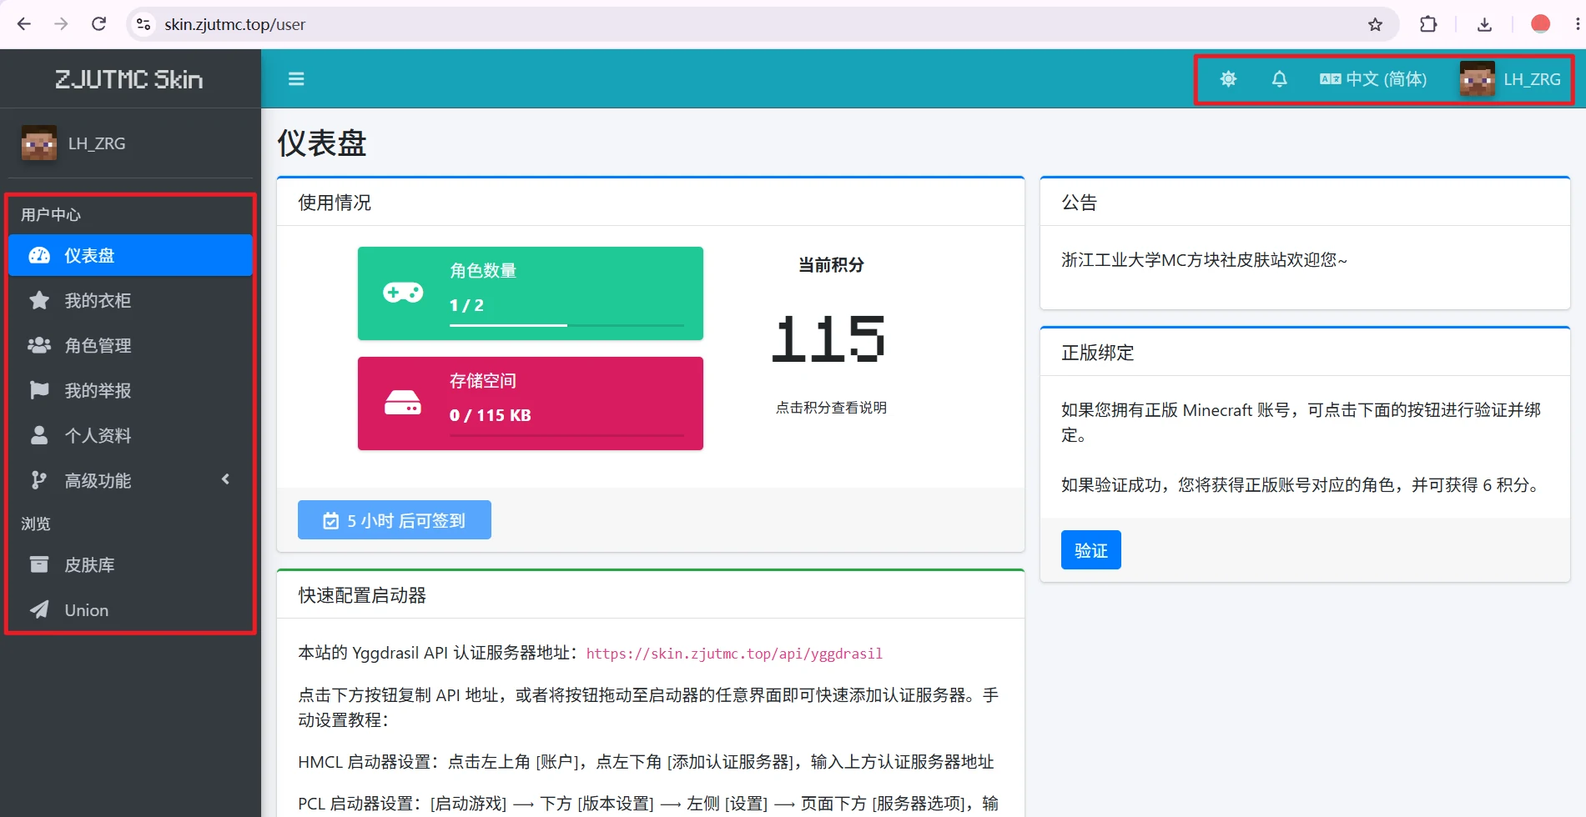
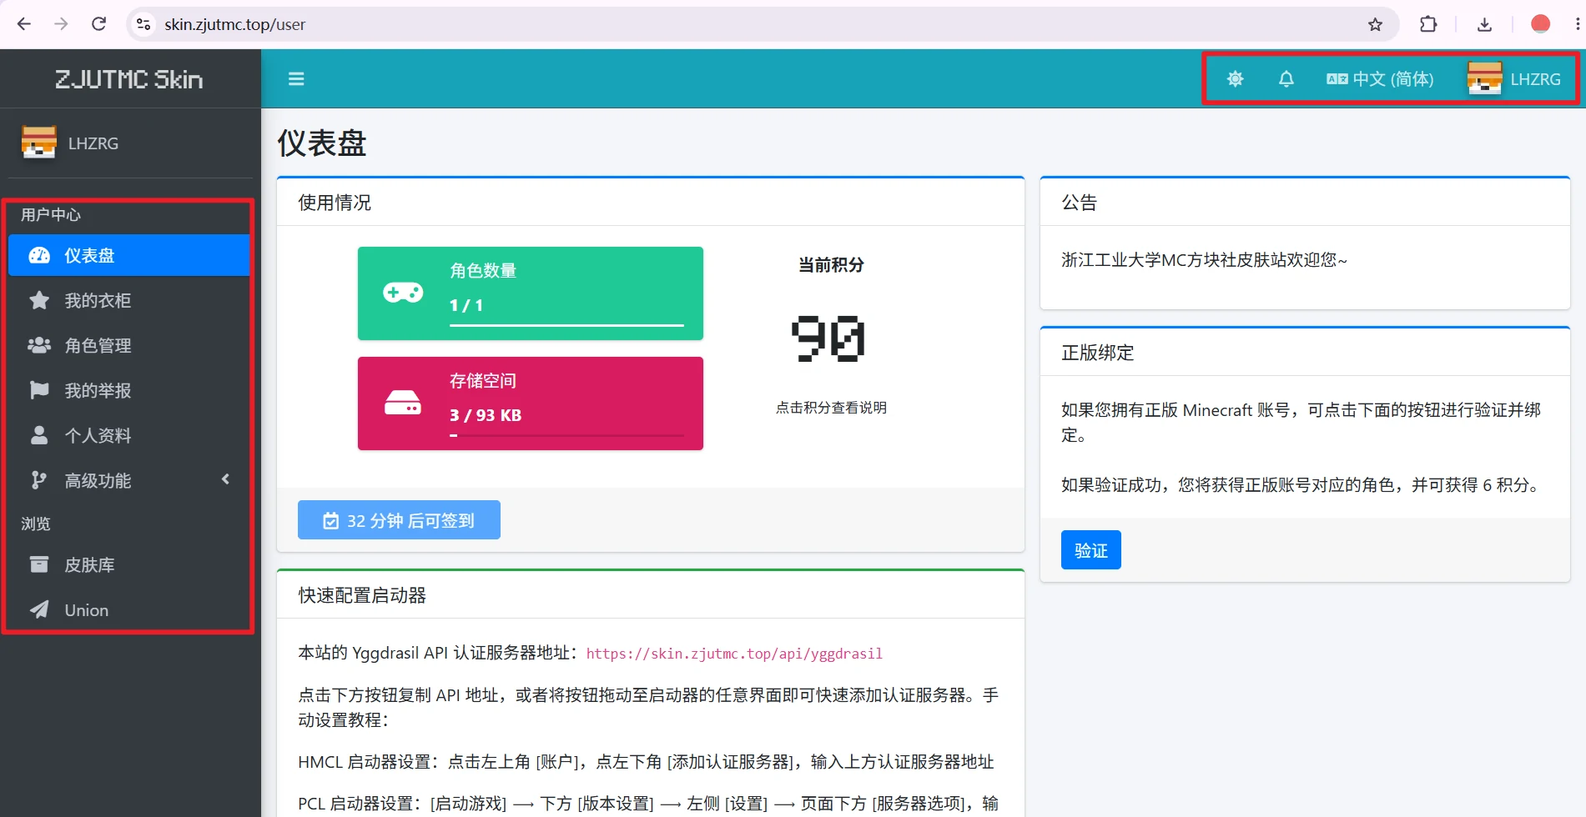
docs: 更新皮肤站使用指南

diff --git a/content/docs/how-to-use-skin-zjutmc-top/index.md b/content/docs/how-to-use-skin-zjutmc-top/index.md
@@ -8,150 +8,298 @@ showTableOfContents = true
 showHero = false
 +++
 
-> **编写中：本文仍待核对与补充，请以社团最新通知为准。**
+社团皮肤站用于管理 Minecraft 角色，同时为角色添加皮肤与披风。本文面向 Java 版玩家。
 
-社团皮肤站用于管理 Minecraft 角色的皮肤与披风。本文主要面向 Java 版玩家，介绍通用操作；具体按钮名称、注册要求和客户端配置，请以皮肤站当前页面及社团服务器说明为准。
-
-**皮肤站地址：[skin.zjutmc.top](https://skin.zjutmc.top/)**
-
-> **用过 LittleSkin？可以先看下面的快速上手。** 社团皮肤站与 LittleSkin 均基于 Blessing Skin Server，角色管理、皮肤库和衣柜等操作有相似之处，但两站是不同服务，账号、角色、材质和登录状态不互通。
+**皮肤站地址：[https://skin.zjutmc.top](https://skin.zjutmc.top/)**
 
 ## LittleSkin 用户快速开始
 
-如果你已经熟悉 LittleSkin，可以跳过后面的注册与使用基础说明，按下列步骤逐项检查即可：
+本社团皮肤站与 LittleSkin 均基于 Blessing Skin Server，操作有诸多相似之处，但**两站数据不互通**。如果你已经熟悉 LittleSkin，按下列步骤逐项检查即可：
 
-1. 打开 [浙江工业大学MC方块社皮肤站](https://skin.zjutmc.top/)，按本站要求**单独注册并登录**，其他皮肤站账号均无法直接登录。
-2. 在角色管理中创建或确认角色，使角色名与实际使用方式、服务器要求一致。
-3. 上传自己的皮肤，或在本站皮肤库中选择材质，加入衣柜后应用到目标角色。
-4. 阅读本文的[客户端与服务器配置](#client-server-config)，确认使用社团提供的客户端、皮肤加载方案或外置登录方案。
+1. 打开 [浙江工业大学MC方块社皮肤站](https://skin.zjutmc.top/)，按社团皮肤站要求**注册账号并登录**，其他皮肤站账号均无法直接登录。
+2. 在角色管理中创建修改角色，使角色名与实际使用方式、服务器要求一致。
+3. 上传自己的皮肤，或在社团皮肤站的皮肤库中选择材质，加入衣柜后应用到目标角色。
+4. 阅读本文的[客户端与服务器配置](#client-server-config)，确认使用社团提供的客户端与登录方案。
 
-## 开始之前
+## 新用户从这里开始
 
-请先区分三个易被混淆的概念：
+### 开始之前
+请先区分三个未详细了解时易被混淆的概念：
 
 | 概念 | 用途 | 注意事项 |
 | --- | --- | --- |
-| 皮肤站 | 管理角色与材质的网站 | 不是专供皮肤下载的皮肤中心，其账号不等于微软账号，也不应默认与其他皮肤站账号互通 |
-| 角色 | 接受皮肤、披风设置的游戏身份 | 角色名与客户端、服务器的对应方式取决于实际登录方案 |
-| 皮肤与披风 | 角色使用的外观材质 | 上传或收藏后，通常还需要应用到具体角色 |
+| 皮肤站 | 管理角色并提供验证的网站 | 不是专供下载皮肤材质的皮肤网站，但网站内有玩家上传的材质<br>其账号不是正版账号，也不默认与其他皮肤站账号互通 |
+| 角色 | 接受皮肤与披风设置的游戏身份 | 角色名与客户端、服务器的对应方式取决于实际登录方案 |
+| 皮肤与披风 | 角色使用的外观材质 | 上传或收藏后，需要应用到具体角色 |
 
-> **在网页上设置成功，不等于所有客户端和服务器都会自动显示。** 是否显示，还取决于客户端皮肤加载方式、外置登录配置以及服务器支持情况。
+在网页上设置成功，不等于所有客户端和服务器都会自动显示。是否显示，取决于客户端皮肤加载方式、外置登录配置以及服务器支持情况。
 
-本站不是 Minecraft 官方服务，不会因此修改微软账号中的官方皮肤，也不提供 Minecraft 正版购买凭证。
+社团皮肤站不提供 Minecraft 官方服务，也不会修改正版账号中的皮肤与披风，更不提供 Minecraft 正版账号的购买与验证凭证。
 
-## 一、注册并登录
+### 一、注册并登录
 
 1. 打开 [浙江工业大学MC方块社皮肤站](https://skin.zjutmc.top/)。
 
-    ![皮肤站欢迎页](welcome_page.webp)
-
 2. 可使用页面右上方的语言菜单切换为所需语言。
 
-3. 点击“现在注册”；如已注册账号，点击登录。
+3. 点击“现在注册” ；如已注册账号，点击登录。
+
+    ![皮肤站欢迎页](welcome_page.webp)
+
+4. 按下图页面要求填写所有信息，完成人机验证，点击注册。
 
     ![皮肤站注册页](register.webp)
 
-4. 按页面要求填写所有信息，完成人机验证，点击注册。
-
-    ![完成人机验证](greenbingo.webp)
+5. 完成账号注册如下图所示。使用社团皮肤站账号登录。
 
     ![完成账号注册](whitebingo.webp)
 
-5. 注册完成后，使用本站账号登录。
+    点击这里 → [前往登录页面](https://skin.zjutmc.top/auth/login)
 
-    [前往登录页面](https://skin.zjutmc.top/auth/login)
-
-## 二、创建与修改角色
+### 二、创建与修改角色
 
 登录后，系统会自动跳转至用户中心仪表盘，在这里可以看到总览信息。
+
+![皮肤站主页](home_page.webp)
+
+1. 注册皮肤站账号时，系统已按提交的角色名创建角色，默认为Steve皮肤，无披风。
+
+2. 要绑定正版账号，点击"用户中心-仪表盘"，点击右侧正版绑定"验证"按钮，网页会跳转到 Microsoft 网站等待授权验证。完成后该皮肤站账号即绑定正版账号，角色会同步正版账号上使用的皮肤和披风。
+
+    ![链接正版账号](authorized.webp)
+
+3. 要修改角色外观，点击"用户中心-我的衣柜"，点击"上传材质"，按提示上传 Minecraft 皮肤使用的PNG材质文件 (而不是人物效果截图) 。选择模型时，请**区分 Steve／默认模型（宽手臂）**与 **Alex／纤细模型（细手臂）**，查看预览以确认皮肤模型正确。  
+
+    ![材质页面](skin_page.webp)
+
+    ![上传材质](uplode_skin_page.webp)
+
+    上传完成后，回到"用户中心-我的衣柜"，在"皮肤"栏目下选择已上传或收藏的皮肤，点击右侧预览框下方"使用..."添加到指定角色。
+
+    ![选择材质](choose_skin.webp)
+
+    > 常见 Java 版皮肤尺寸为 `64×64` 或 `64×32`；不要仅把普通图片改名为 `.png` 后上传。  
+
+    > 请尊重材质原作者，不要未经允许转载、冒充原创或公开他人的私有材质，本皮肤站仅代为保存材质。皮肤站上传的披风不等于微软或 Mojang 官方披风，也不能保证自定义披风在未配置支持的客户端中显示。
+
+4. 要修改角色名称，点击"用户中心-角色管理"，点击角色名修改图标，修改角色名称。
+
+    ![修改角色名称](change_name.webp)
+
+    > 修改正版账号对应角色的角色名称会导致皮肤站因无法找到同名角色而无法同步正版账号上使用的皮肤和披风，请谨慎操作。
+
+5. 要创建新角色，点击"用户中心-角色管理"，点击"添加新角色"，按要求添加新角色。每添加一个新角色需要消耗100皮肤站积分。
+
+    ![创建新角色](create_new_player.webp)
+
+    > 建议使用符合 Minecraft Java 版常见规则的角色名，例如英文字母、数字和下划线。
+
+    > **不要随意删除、重建或改名。** 角色名称或身份变化可能影响服务器中的玩家识别；有进度、背包或白名单记录时，请先咨询服务器管理员。
+
+### 三、配置皮肤加载 {#client-server-config}
+
+请优先使用社团提供的客户端，遵循对应服务器的入服说明。如果配置正常工作，不要额外重复安装模组或改动登录方式。
+
+关于启动器验证配置，详阅[PCL启动器使用指南]() 
+
+#### 使用社团客户端配置皮肤加载
+
+1. 按入服指引说明，将客户端导入启动器，使用指定的账号或角色。
+2. 在皮肤站确认皮肤已应用到正确角色。
+3. 点击"用户中心-仪表盘", 在"快速配置启动器"栏目下选择合适的方式配置启动器登录方式。
+
+    ![配置登录](sign_in.webp)
+
+#### 自行配置皮肤加载
+
+使用 CustomSkinLoader 等皮肤加载模组时，需要匹配 Minecraft 版本与模组加载器，有时可能需要添加社团皮肤站皮肤源。
+
+> **安装模组不代表它会自动读取社团皮肤站。**社团皮肤站皮肤源的地址、顺序和配置以维护者提供的信息为准。
+
+## 皮肤站功能详细介绍
+
 左侧菜单栏提供了多种工具管理皮肤站账号内容，右上角功能键分别为：切换深浅主题色、未读信息、切换语言、账号信息。
 
-1. 注册皮肤站账号时，系统已按提交的游戏内角色名创建角色，默认为Steve皮肤，无披风。
-2. 要链接到正版账号，点击"用户中心-仪表盘"，点击右侧正版绑定"验证"按钮，网页会跳转到Microsoft网站等待授权验证。完成后该皮肤站账号即绑定正版账号，角色会同步当前正版账号上使用的皮肤和披风。
-3. 要修改角色外观，点击"用户中心-我的衣柜"，点击"上传材质"，按提示上传Minecraft皮肤使用的PNG材质文件，而不是人物效果截图。选择模型时，请区分 Steve／默认模型（宽手臂） 与 Alex／纤细模型（细手臂），查看预览以确认皮肤模型正确。上传完成后，回到"用户中心-我的衣柜"，在"皮肤"栏目下选择已上传或收藏的皮肤，点击右侧预览框下方"使用..."添加到指定角色。常见 Java 版皮肤尺寸为 `64×64`，传统皮肤也可能是 `64×32`；不要仅把普通图片改名为 `.png` 后上传。请尊重原作者，不要未经允许转载、冒充原创或公开他人的私有材质，本皮肤站仅为正常游玩游戏代为保存皮肤。修改角色披风方式以此类推。本站上传的披风不等于微软或 Mojang 官方披风，也不能保证自定义披风在未配置支持的客户端中显示。
-4. 要修改角色名称，点击"用户中心-角色管理"，点击角色名修改图标，修改角色名称。修改正版账号对应角色的角色名称会导致皮肤站因无法找到同名角色而无法同步正版账号上使用的皮肤和披风，请谨慎操作。
-5. 要创建新角色，点击"用户中心-角色管理"，点击"添加新角色"，按要求添加新角色。每添加一个新角色需要消耗100皮肤站积分，可添加的新角色数量可以从仪表盘"使用情况-角色数量"栏目下 x/y  得到，x为已有角色数量，y为当前积分下支持拥有的角色总数量。
+### 仪表盘
 
-建议使用符合 Minecraft Java 版常见规则的角色名，例如英文字母、数字和下划线。
+#### 使用情况
 
-**不要随意删除、重建或改名。** 角色名称或身份变化可能影响服务器中的玩家识别；有进度、背包或白名单记录时，请先咨询服务器管理员。
+总览角色数量、存储空间和当前积分。皮肤站现已支持上传高清皮肤和披风。
 
-## 三、客户端与服务器配置 {#client-server-config}
+角色数量下有 x/y ，x为已有角色数量，y为当前积分下支持拥有的角色总数量。
 
-请优先使用社团提供的客户端或整合包，并遵循对应服务器的入服说明。如果已有配置正常工作，不要因为教程提到某个模组而重复安装或改动登录方式。
+积分细则请前往皮肤站点击积分查看。
 
-### 情况 A：社团客户端已经配置好
+#### 公告
 
-1. 按社团说明启动客户端，使用指定的账号或角色。
-2. 在皮肤站确认皮肤已应用到正确角色。
-3. 重启游戏或重新进入服务器，检查显示效果。
+查看皮肤站最新公告
 
-如果仍然不显示，先阅读下方的排查清单，不要立刻更换角色或删除账号。
+浙江工业大学MC方块社皮肤站欢迎您~
 
-### 情况 B：自行配置皮肤加载
+#### 快速配置启动器
 
-使用 CustomSkinLoader 等皮肤加载模组时，需要匹配 Minecraft 版本与模组加载器，并按管理员说明添加本站皮肤源。
+拖拽按钮快速配置启动器登录，或手动配置认证服务器。
 
-**安装模组不代表它会自动读取社团皮肤站。** LittleSkin 可能存在预置支持，但不能据此假定社团皮肤站也在默认加载列表中；本站皮肤源的地址、顺序和配置以维护者提供的信息为准。
+#### 正版绑定
 
-这类方案主要解决客户端如何获取皮肤，不等于服务器登录认证，也不会自动让所有其他玩家看到你的皮肤；其他玩家的客户端同样需要具备对应支持。
+将已登录的皮肤站账号链接到微软正版账号。绑定完成后同步正版账号上使用的皮肤和披风。
 
-### 情况 C：服务器要求外置登录
+### 我的衣柜
 
-仅在社团明确启用并提供外置登录说明时使用此方案：
+#### 皮肤
 
-1. 在支持相应认证方式的启动器中，添加管理员提供的认证服务器。
-2. 检查认证地址确实属于社团指定服务，不要沿用 LittleSkin 的地址。
-3. 按启动器提示使用本站凭据登录，并选择正确角色。
-4. 通过该账号启动游戏，连接支持这一认证方式的服务器。
+查看自己已上传、由正版账号导入和收藏的由其他玩家上传的皮肤。
 
-**本文暂不提供未经核实的认证地址。** 如果没有找到社团发布的配置说明，请先咨询管理员，不要猜测接口路径，也不要向不明认证服务器提交密码。
+点击齿轮设置键，可以重命名皮肤、将皮肤从衣柜中移除、在皮肤库中查看该皮肤、将当前皮肤设为皮肤站账号头像。
 
-<!-- 编辑者补充区：核实后在此加入实际启动器操作、认证地址及截图，或删除不适用的方案。 -->
+[皮肤站皮肤库](https://skin.zjutmc.top/skinlib)
+
+#### 披风
+
+查看自己已上传、由正版账号导入和收藏的由其他玩家上传的披风。
+
+点击齿轮设置键，可以重命名披风、将披风从衣柜中移除、在披风库中查看该披风。
+
+[皮肤站披风库](https://skin.zjutmc.top/skinlib?filter=cape)
+
+#### 上传材质
+
+上传个性化皮肤与披风的入口。
+
+#### 材质预览
+
+预览当前可用的皮肤与披风。在皮肤与披风页面点击需要的材质，预览窗口就会自动显示。
+
+右上角功能键分别为：切换行走/奔跑、旋转/停止旋转、暂停动作/播放动作、重置动作。
+
+左下角功能键分别为：将背景设置为白色/黑色/灰色，左右切换游戏背景。可用的游戏背景有：平原河岸、恶地山谷、洞穴、风袭丘陵、冻河、冰原、人工建筑。
+
+点击"使用..."将材质应用到角色。点击"重置已选材质"将清空材质预览里已选的材质，重置为 Steve 。
+
+### 角色管理
+
+#### 角色管理
+
+搜索账号下的角色，查看角色PID，修改角色名，删除角色材质，删除角色。
+
+#### 材质预览
+
+基本功能与"我的衣柜"中的"材质预览"相同。
+
+点击"切换 2D/3D 预览"，可以查看当前角色材质的平面图和立体图。
+
+### 我的举报
+
+查看在皮肤库中提交的举报工单。
+
+### 个人资料
+
+#### 更改头像
+
+详细说明了如何更改皮肤站账号头像。
+
+点击"重置头像"将重置头像为 Steve 。
+
+#### 更改昵称
+
+更改皮肤站账号昵称，该修改**不会影响账号内已创建的角色名**。
+
+#### 更改密码
+
+修改皮肤站账号密码。
+
+#### 更改邮箱
+
+修改皮肤站账号邮箱。邮箱一栏默认**显示当前已绑定的邮箱**。
+
+要修改邮箱，请删除当前邮箱，输入新邮箱，再输入密码进行校验。
+
+> 启动器配置认证服务器为社团皮肤站时，启动游戏需要账号绑定的邮箱登录，请谨慎修改。
+
+#### 删除账号
+
+删除社团皮肤站账号。**该操作无法恢复**，请谨慎操作。
+
+### 高级功能 - OAuth2 应用
+
+#### OAuth2 应用
+
+编者也不知道这个怎么用喵...
+
+### 皮肤库
+
+查看社团皮肤站内所有玩家上传且公开的材质，允许其他玩家收藏、应用和下载。
+
+材质详情页可以查看名称、适用模型、Hash值、文件大小、上传者、上传日期信息。
+
+材质详情页的材质预览基本功能与"我的衣柜"中的"材质预览"相同。可以快速设置为账号头像、下载材质和举报材质。
+
+### Union
+
+社团皮肤站现已接入 MUA Union，所有 MUA Union 联合认证支持的服务器均可显示。
+
+#### 角色绑定和冲突检查
+
+适用于在 MUA Union 其他皮肤站注册了相同名称角色的玩家。详细说明了该情况如何处理。
+
+#### 站点安全性
+
+显示当前站点在 MUA Union 联合认证中的评级。
+
+#### ID:xxx
+
+用于查看当前账号下当前角色在联合认证中的基础信息和 UUID 。允许通过获取 Token 的方式将其他账号绑定到主账号。
+
+#### 皮肤站列表
+
+查看 MUA Union 联合认证中所有支持的皮肤站。
 
 ## 常见问题
 
-### 为什么网页预览正常，游戏里却没有皮肤？
+### 为什么网页预览正常，游戏里却没有皮肤/披风？
 
-按顺序检查：
+请按顺序依次检查：
 
-1. 是否把皮肤应用到了正确角色，而不只是上传或收藏。
-2. 当前启动器账号、所选角色与服务器要求是否一致。
-3. 客户端是否已配置本站皮肤源，或按要求使用了正确的外置登录服务。
+1. 是否把皮肤/披风应用到了正确角色，而不只是上传或收藏。
+2. 当前启动器账号与应用了皮肤/披风的角色是否一致。
+3. 客户端是否已配置社团皮肤站的皮肤源，或按要求使用了正确的皮肤加载。
 4. 模组版本、加载器和游戏版本是否匹配。
-5. 网络能否访问本站，是否仍在使用缓存；可以等待片刻并重启游戏再试。
+5. 网络能否访问社团皮肤站，是否仍在使用缓存；可以等待片刻并重启游戏再试。
 
-不要将“游戏里暂时不显示”直接理解为需要重新注册账号。
+仍存在问题请联系管理员。
 
 ### 为什么我能看到皮肤，其他玩家却看不到？
 
-不同客户端可能使用不同的皮肤来源。请让对方确认其客户端是否支持并配置了本站；仅在你自己的客户端安装模组，通常不能改变其他玩家的显示方式。
+不同客户端可能使用不同的皮肤来源。请让对方确认其客户端是否支持并配置了社团皮肤站；仅在你自己的客户端完成配置，通常不能改变其他玩家的显示方式。
 
 ### 为什么手臂或身体贴图错位？
 
 检查是否选错 Steve／Alex 模型，以及上传的文件是否确实为对应尺寸与布局的皮肤材质。重新选择模型或更换正确材质后再预览。
 
+### 为什么皮肤站看起来和 LittleSkin 很像？
+
+社团皮肤站使用 [Blessing Skin Server](https://github.com/bs-community/blessing-skin-server)。[LittleSkin](https://littleskin.cn/) 首页也说明其基于定制的 Blessing Skin Server，因此两者在页面结构、角色与材质管理思路，以及界面风格上有相似之处。
+
+**这是共用开源技术基础，不代表社团皮肤站属于 LittleSkin，也不代表两站共享账号、数据或所有功能。** LittleSkin 的定制功能、运营规则、认证服务和默认客户端适配，不能直接视作本站具备。
+
 ### LittleSkin 账号为什么不能直接登录？
 
-两站虽然使用相近的软件，但不应默认共享账号或数据库。请按本站要求单独注册；如果管理员另外提供了迁移或绑定功能，以该功能说明为准。
+两站配置近似，但不共享账号或数据库。请按皮肤站要求单独注册。
 
 ### 设置后是否能在任意服务器显示？
 
-不能保证。本站管理的是本站材质及相关角色设置，最终显示受客户端和服务器配置影响；基岩版、官方账号皮肤和第三方皮肤加载也不是同一套使用流程。
+不能保证。皮肤站管理站内材质及相关角色设置。社团皮肤站现已接入 MUA Union，所有 MUA Union 联合认证支持的服务器均可显示。
 
 ### 忘记密码或遇到其他问题怎么办？
 
-如果登录页提供“忘记密码”，可按提示找回；否则联系管理员。求助时请提供：
+如果登录页提供“忘记密码”，可按提示找回；其他情形请联系管理员。
+
+求助时请提供：
 
 - 发生问题的步骤和完整错误提示。
 - 启动器、Minecraft 版本及模组加载器。
 - 使用的角色名称，以及是否使用社团客户端。
 - 必要的界面截图，注意遮挡邮箱、令牌、密码和其他隐私信息。
 
-可通过社团公布的渠道联系管理员；社团 QQ 群为 **763729280**。
 
-## 为什么看起来和 LittleSkin 很像？
 
-社团皮肤站使用 [Blessing Skin Server](https://github.com/bs-community/blessing-skin-server)。[LittleSkin](https://littleskin.cn/) 首页也说明其基于定制的 Blessing Skin Server，因此两者在页面结构、角色与材质管理思路，以及默认青色界面风格上有相似之处。
-
-**这是共用开源技术基础，不代表社团皮肤站属于 LittleSkin，也不代表两站共享账号、数据或所有功能。** LittleSkin 的定制功能、运营规则、认证服务和默认客户端适配，不能直接视作本站已经具备的能力。

diff --git a/content/contact/index.md b/content/contact/index.md
@@ -25,13 +25,13 @@ layoutBackgroundBlurStyle = "fade"
 
 - **问题与建议反馈邮箱**：`zjutmc@163.com`
 
-| 反馈方向 | 可以反馈的内容 |
-| --- | --- |
-| 纯原服务器反馈 | 连接异常、卡顿、游戏机制异常、违规行为与游玩体验建议 |
-| GTNH服务器反馈 | 整合包安装与连接问题、任务或配方异常、服务器故障及私货建议 |
-| 长短期模组、整合包服务器反馈 | 整合包安装与连接问题、服务器故障及玩法建议 |
-| 社团管理与制度建议反馈 | 社团章程、成员权益、管理流程及规则完善建议 |
-| 社团网站问题与建议反馈 | 页面错误、失效链接、教程修订、功能与无障碍体验建议 | 提交 [GitHub Issues](https://github.com/ZJUTMC/zjutmc-website/issues) |
+| 反馈方向 | 可以反馈的内容 | 反馈方式 |
+| --- | --- | --- |
+| 纯原服务器反馈 | 连接异常、卡顿、游戏机制异常、违规行为与游玩体验建议 | 提交社团邮箱 |
+| GTNH服务器反馈 | 整合包安装与连接问题、任务或配方异常、服务器故障及私货建议 | 提交社团邮箱 |
+| 长短期模组、整合包服务器反馈 | 整合包安装与连接问题、服务器故障及玩法建议 | 提交社团邮箱 |
+| 社团管理与制度建议反馈 | 社团章程、成员权益、管理流程及规则完善建议 | 提交社团邮箱 |
+| 社团网站问题与建议反馈 | 页面错误、失效链接、教程修订、功能与无障碍体验建议 | 提交社团邮箱；提交 [GitHub Issues](https://github.com/ZJUTMC/zjutmc-website/issues) |
 
 *仅社团官网 www.zjutmc.top 问题可以提交到 Github Issues ，社团皮肤站运营问题请提交到社团邮箱。
 为了更快定位问题，建议在反馈中附上：**问题描述、发生时间、涉及的服务器或页面、复现步骤，以及必要的截图或报错信息**。提出建议时，欢迎说明现有困扰和你期望的改进方式。
